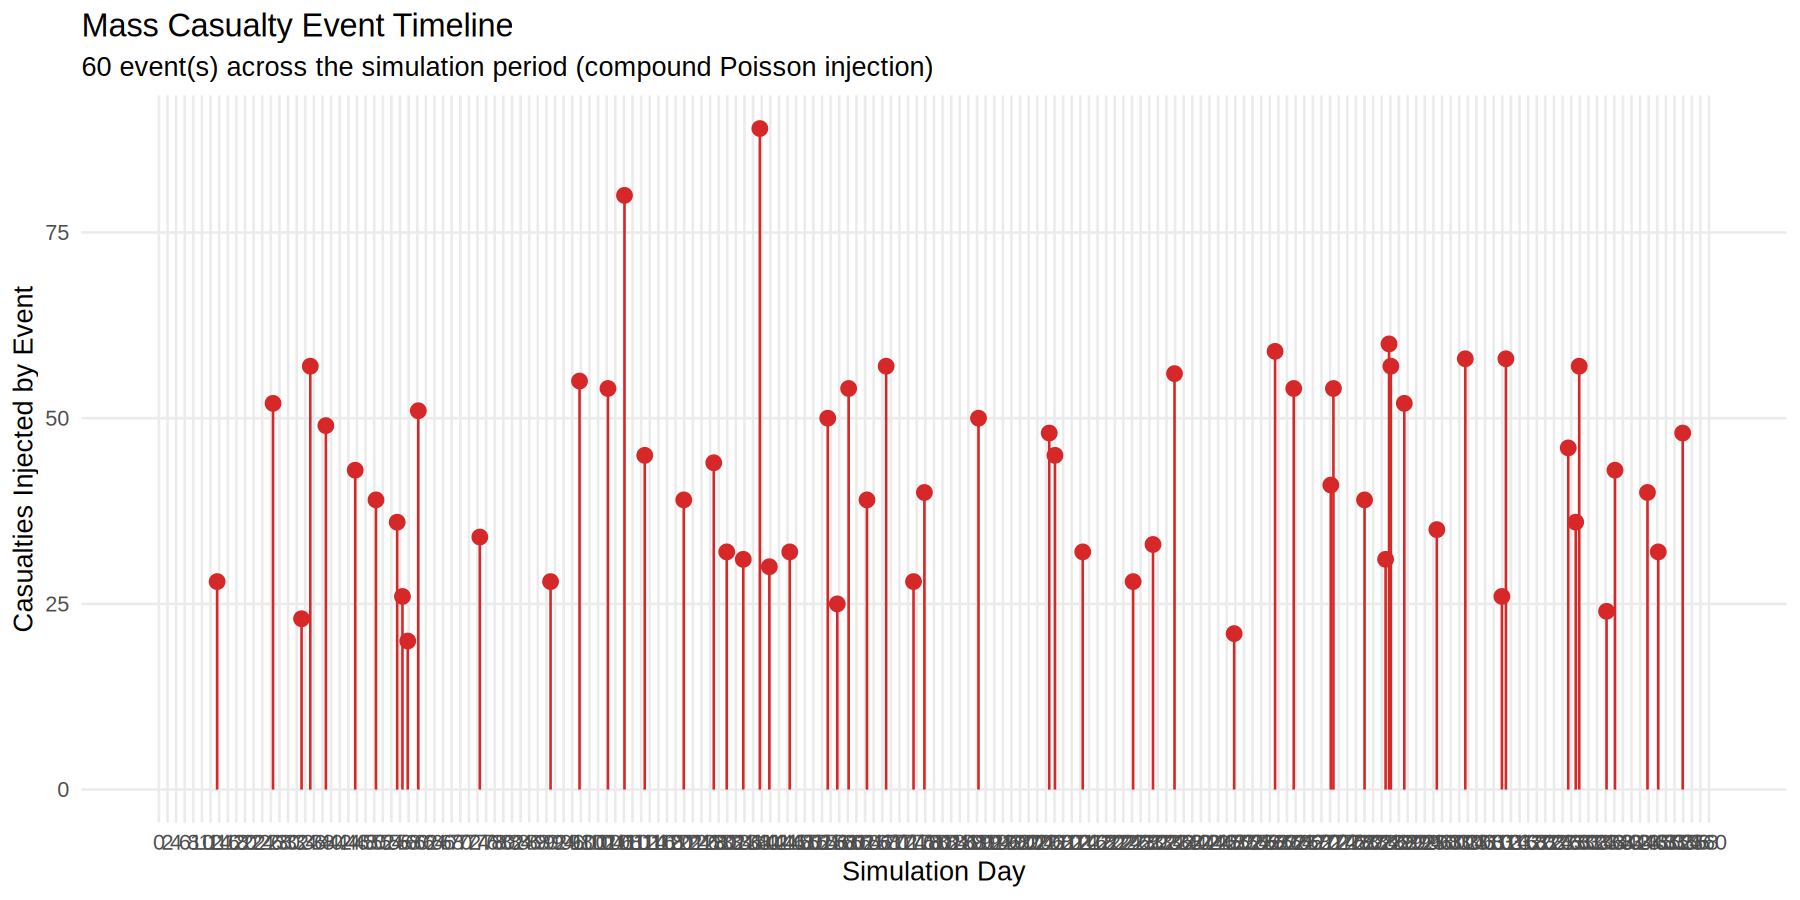
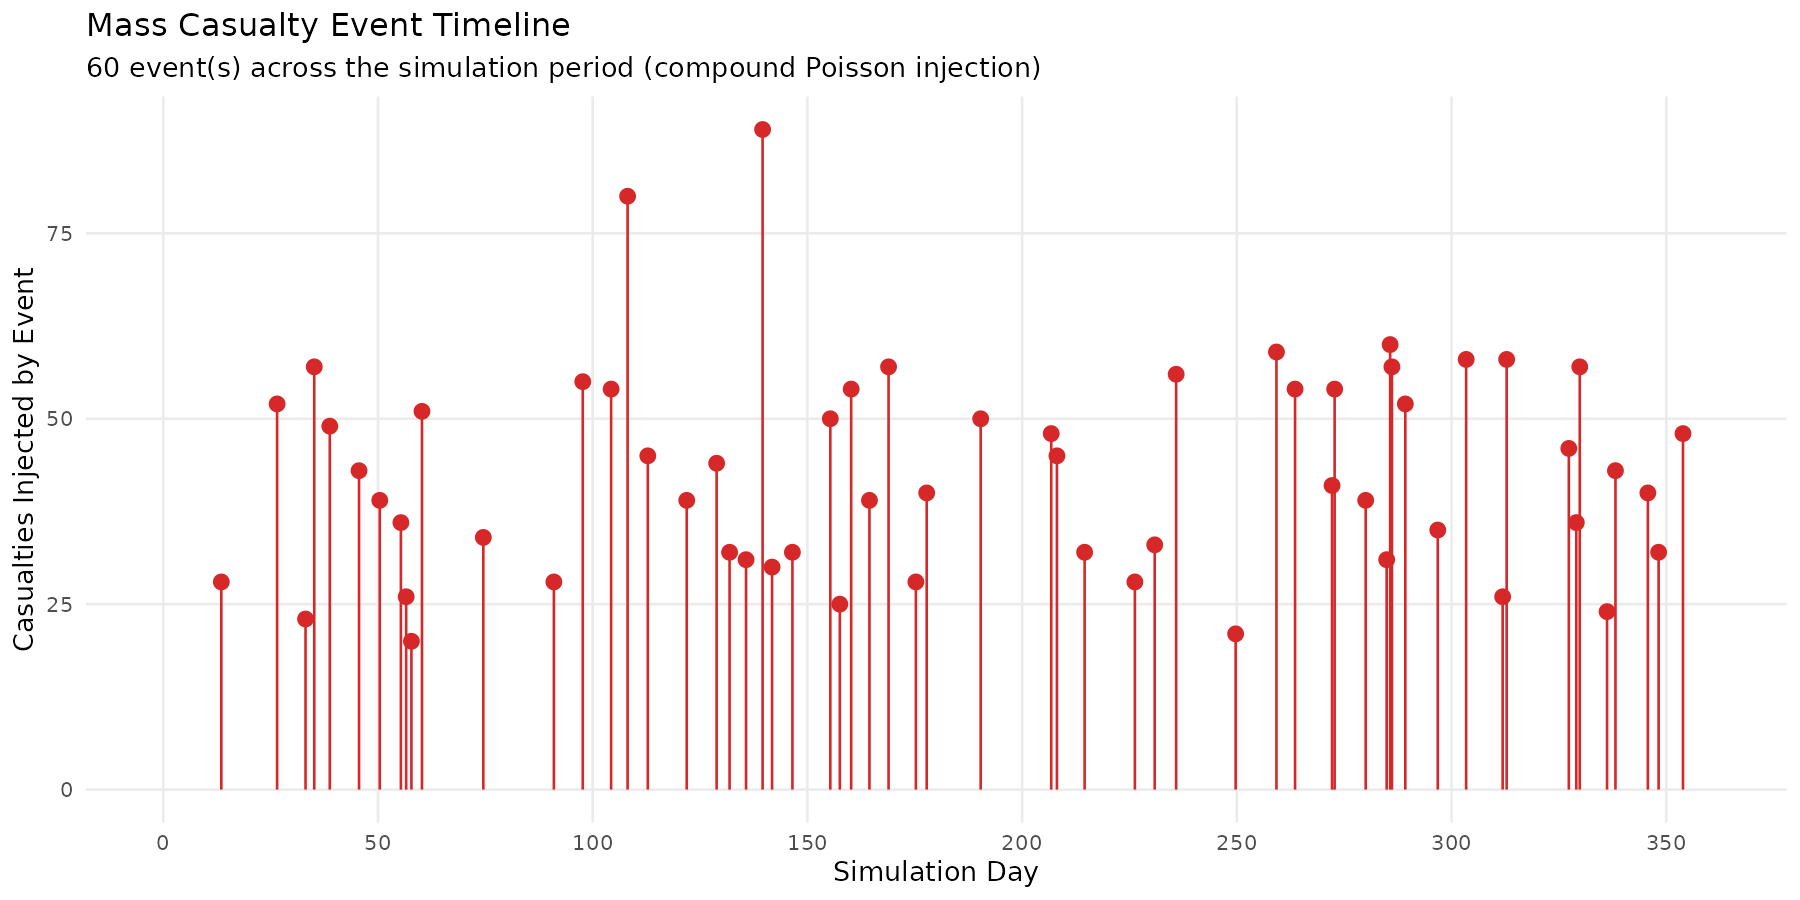
fix(figures): readable day axis on the mass casualty timeline
The timeline put a break at every second day, which over a 360-day
campaign printed an unreadable axis. The plot is factored into
plot_mass_casualty_timeline() with breaks chosen for the horizon, and the
figure is re-rendered from the tracked illustrative event set. The caption
no longer states an event count it disagreed with.

Claude-Session: https://claude.ai/code/session_01KGdABKeVrtdAbWY3WBcp2E

diff --git a/docs/Results.md b/docs/Results.md
@@ -480,7 +480,7 @@ No campaign collapsed at <!-- GEN cell:airlift_collapse|0%|Sortie cancellation|f
 
 ![Stem plot of two mass casualty events reconstructed from one campaign](../images/mass_casualty_events.png)
 
-Two mass casualty events reconstructed from one seed-42 campaign, each drawn as a vertical line at its simulation day with a point at its casualty count.
+The mass casualty events of one illustrative seed-42 campaign, each drawn as a vertical line at its simulation day with a point at its casualty count.
 
 Events added <!-- GEN cell:mass_casualty|Average events/run|Events injected|full -->69.83 (range 57–83)<!-- /GEN --> events per campaign and raised the mean campaign total from <!-- GEN cell:mass_casualty|Average total casualties/run|No events injected|full -->5359.9<!-- /GEN --> to <!-- GEN cell:mass_casualty|Average total casualties/run|Events injected|full -->8187.2<!-- /GEN --> casualties. The died-of-wounds rate among event casualties was <!-- GEN cell:mass_casualty|Died-of-wounds rate, event casualties|Events injected|full -->0.77% [0.72%, 0.84%]<!-- /GEN -->. Among ordinary casualties it was <!-- GEN cell:mass_casualty|Died-of-wounds rate, ordinary casualties|No events injected|full -->0.29% [0.26%, 0.31%]<!-- /GEN --> without injection and <!-- GEN cell:mass_casualty|Died-of-wounds rate, ordinary casualties|Events injected|full -->0.37% [0.34%, 0.40%]<!-- /GEN --> with it.
 
